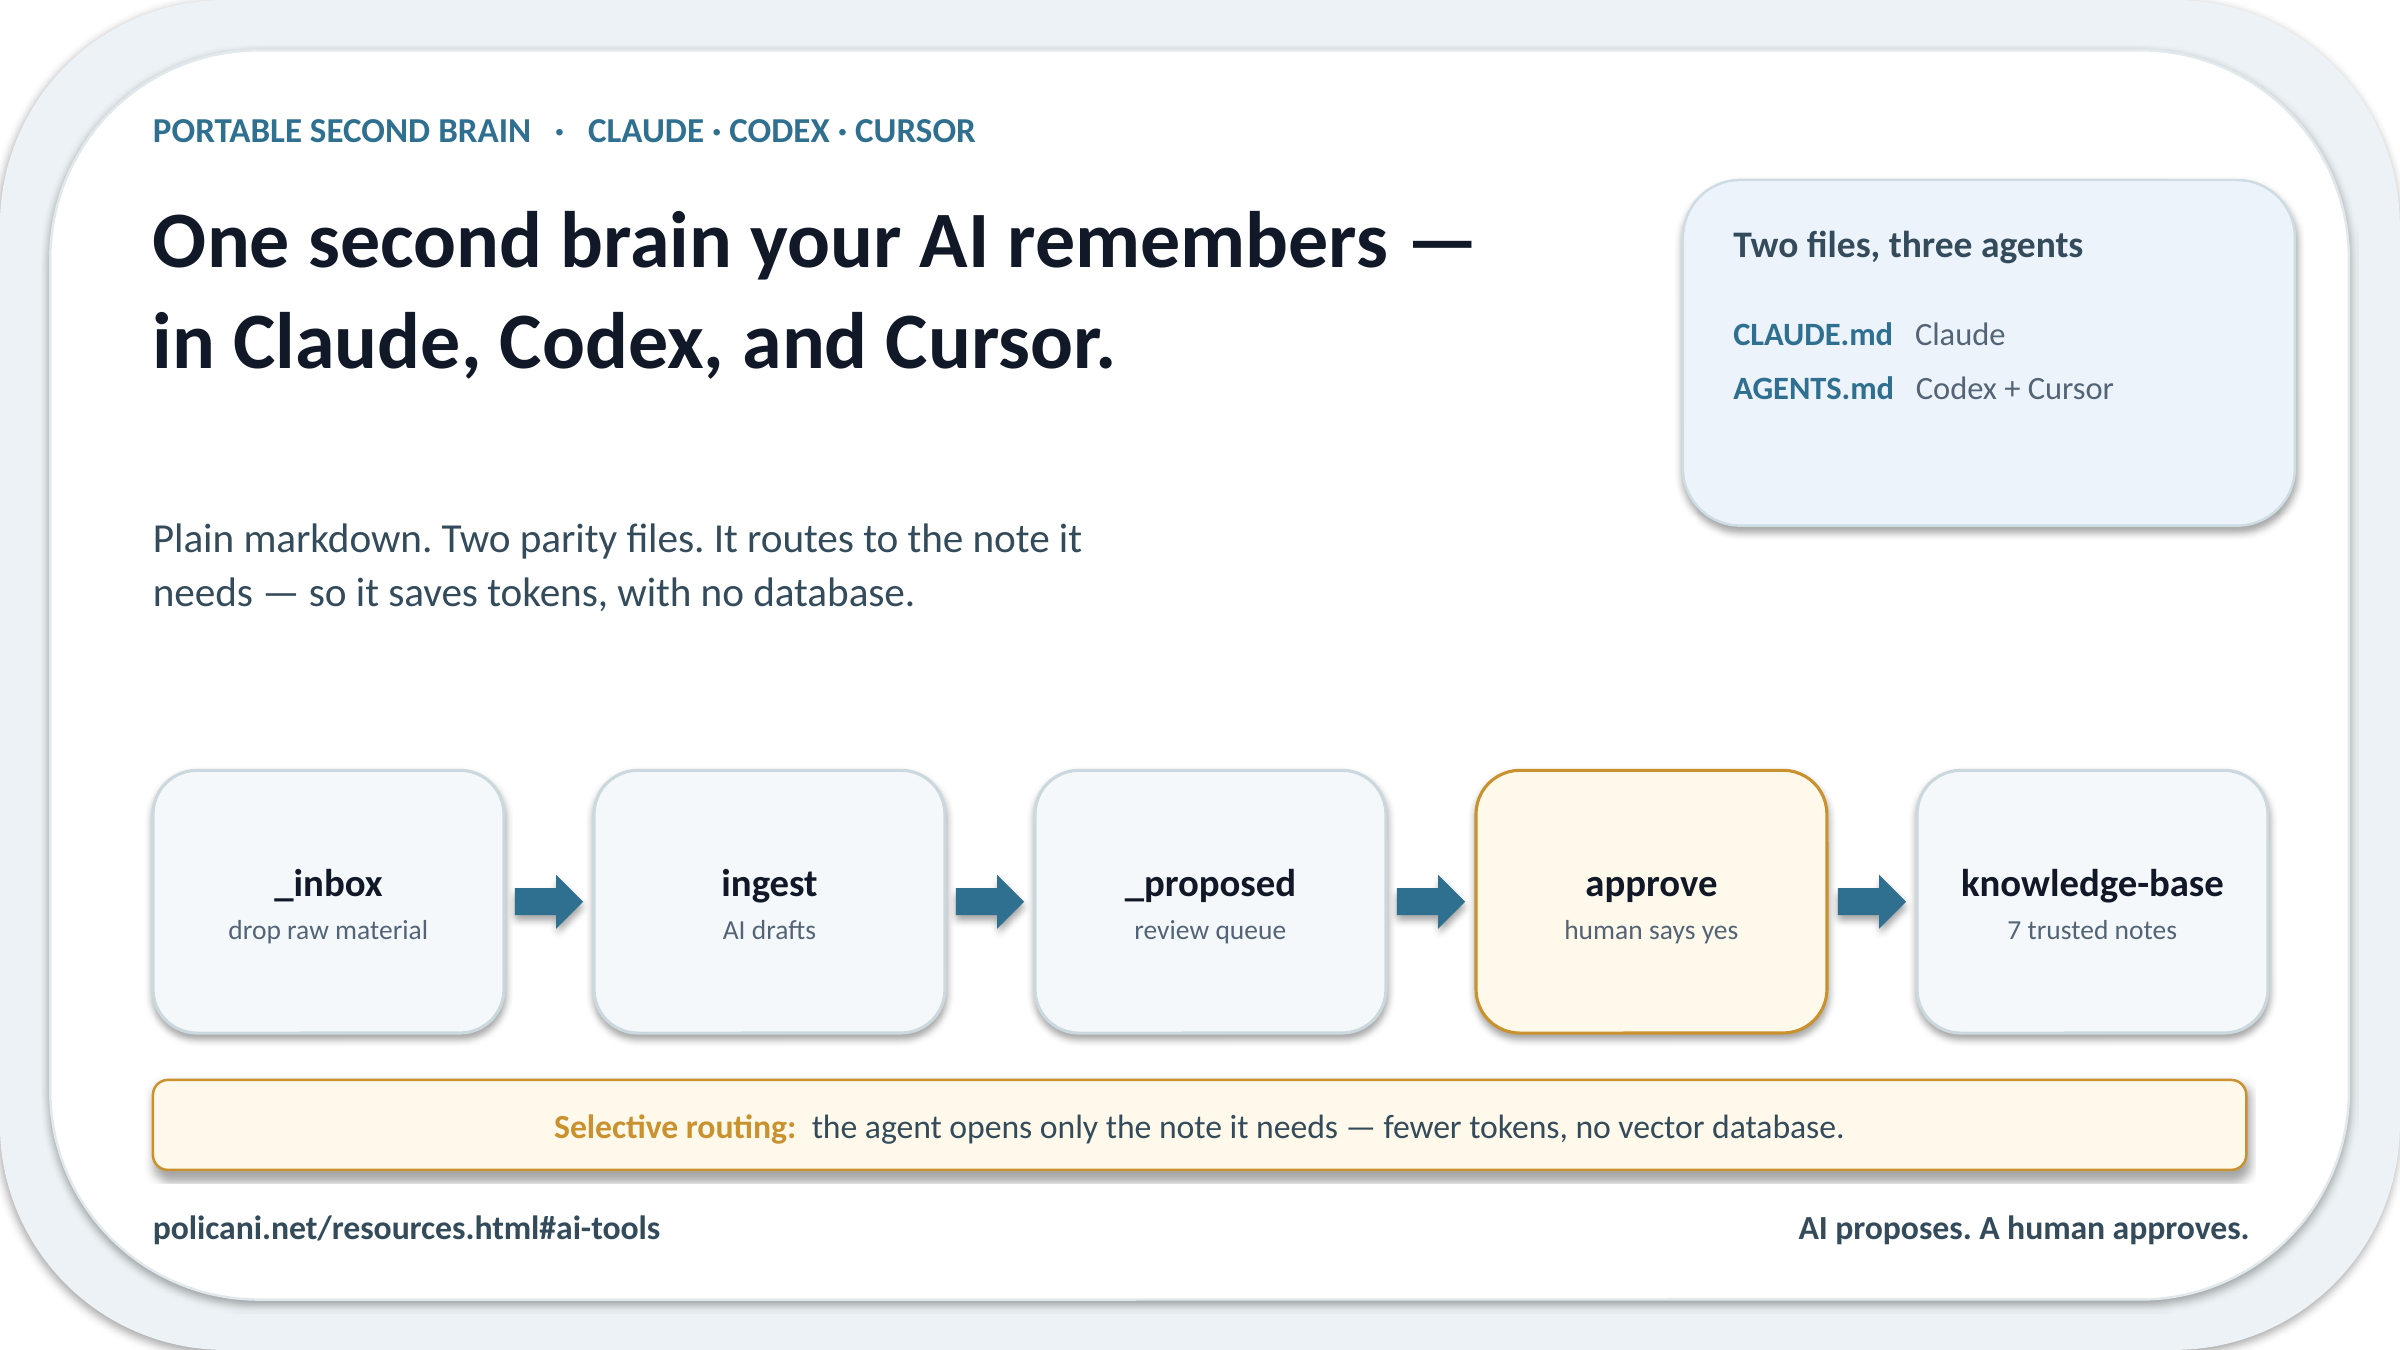
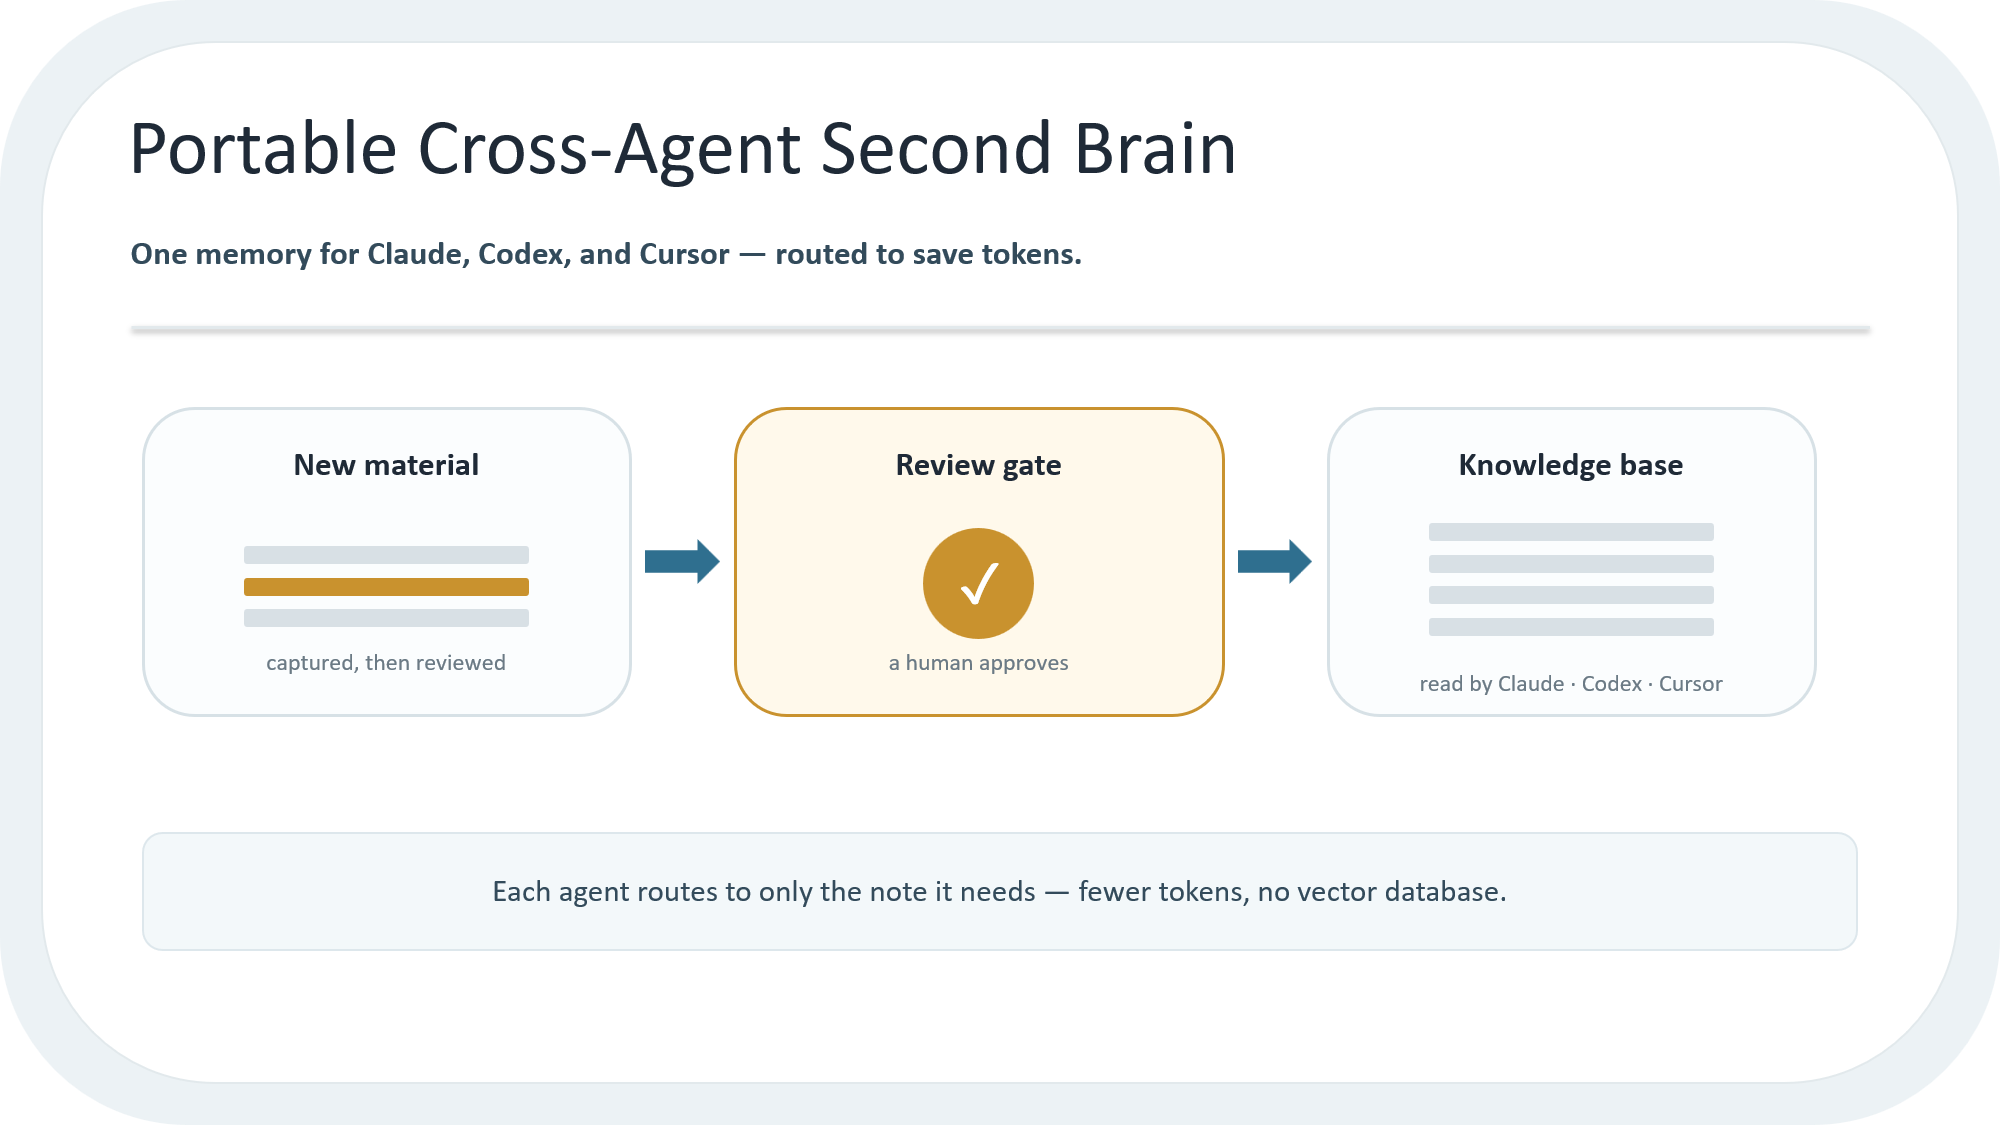
Match cover to house style (name title, gold gate, bottom callout)

diff --git a/resources.html b/resources.html
@@ -186,7 +186,7 @@
 <article class="card resource-product-card">
 <h3>Portable Cross-Agent Second Brain</h3>
 <a class="resource-preview-link" href="https://github.com/policani/portable-cross-agent-second-brain" target="_blank" rel="noopener noreferrer" aria-label="Open the Portable Cross-Agent Second Brain repository">
-<img class="resource-preview-image" src="assets/portable-knowledge-base-cover.png?v=20260626-v2" alt="Workflow diagram: raw material is dropped in, an AI drafts proposed notes, a human approves, and the result becomes a seven-note vault; each agent routes to only the note it needs to save tokens" width="1600" height="900" loading="lazy">
+<img class="resource-preview-image" src="assets/portable-knowledge-base-cover.png?v=20260626-v3" alt="Workflow diagram: raw material is dropped in, an AI drafts proposed notes, a human approves, and the result becomes a seven-note vault; each agent routes to only the note it needs to save tokens" width="1600" height="900" loading="lazy">
 </a>
 <p>A plain-markdown second brain that gives Claude, Codex, and Cursor the same memory of how you work — through two parity instruction files, no database or lock-in. It routes to only the note it needs, so it saves tokens; new material is proposed, then you approve it before anything becomes memory. That context economy is what makes the approach pay back at scale.</p>
 <div class="resource-tags" style="display:flex;flex-wrap:wrap;gap:6px;margin:0 0 2px">
